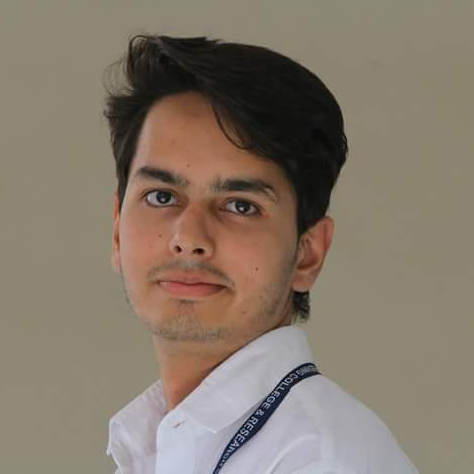
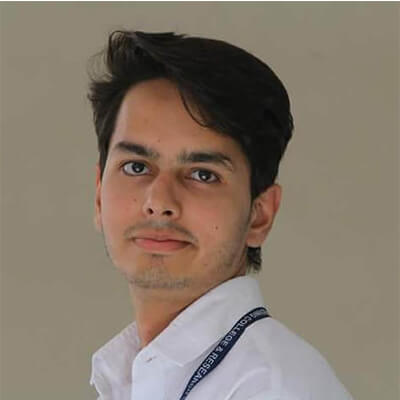
update team images

diff --git a/assets/css/style.css b/assets/css/style.css
@@ -710,10 +710,10 @@ body {
 .event-details article ol, .event-details article ul {
     padding-left: 25px;
 }
-.event-details article h3{
+.event-details article h3 {
     margin: 0;
 }
-.event-details article a{
+.event-details article a {
     color: #00a69c;
 }
 .register-btn {
@@ -1244,7 +1244,7 @@ a.list-group-item img {
     margin-left: 10px;
     margin-top: 5px;
 }
-.contact-msg{
+.contact-msg {
     color: #f63b29;
     font-size: 1.2em;
 }
@@ -1289,6 +1289,24 @@ a.list-group-item img {
 .sponsor img {
     padding: 1em 5%;
     max-height: 180px;
+}
+.member-container {
+    float: none;
+    display: inline-block;
+    vertical-align: top;
+}
+.member-container img {
+    width: 60%;
+    margin-left: 20%;
+    margin-top: 1.5em;
+    margin-bottom: 1em;
+    border-radius: 50%;
+    box-shadow: 3px 2px 10px #222;
+}
+.member-container h4 {
+    font-family: 'Satisfy', cursive;
+    font-size: 2em;
+    color: #00A69C;
 }
 
 /* media query */
@@ -1515,7 +1533,7 @@ a.list-group-item img {
     }
 }
 @media screen and (max-width: 750px) and (max-height: 420px) {
-    #logo{
+    #logo {
         width: 40%;
     }
     .jecrc-img, .dates-img {
@@ -1530,7 +1548,7 @@ a.list-group-item img {
         display: none;
     }
     .pronite, .prizes {
-        top:  70%;
+        top: 70%;
     }
     .flying-man svg {
         bottom: -30px;

diff --git a/assets/partials/partial-team.html b/assets/partials/partial-team.html
@@ -18,7 +18,7 @@
                     <div role="tabpanel" class="tab-pane fade text-center" ng-class="{'active in': $first}" id="tab{{$index+1}}" ng-repeat="members in memberCategories">
                         <div class="row">
                             <div class="col-md-12">
-                                <div class="col-md-4 member-container" ng-repeat="member in members">
+                                <div class="col-md-4 member-container" ng-repeat="member in members | orderBy:random">
                                   <img src="assets/img/team/{{member.img}}" class="img-responsive" />
                                     <h4>{{ member.n }}</h4>
                                      <a class="team-mail" href="mailto:{{ member.m }}"></a>
@@ -34,19 +34,3 @@
     <div class="menu-icon" class="animate-1" ui-sref="explore"><div class="menu-bars"></div></div>
     <div class="clearfix"></div>
 </div>
-
-<style>
-.member-container{
-  float: none;
-  display: inline-block;
-  vertical-align: top;
-}
-.member-container img{
-  width:60%;
-  margin-left: 20%;
-  margin-top: 1.5em;
-  margin-bottom: 1.5em;
-  border-radius: 50%;
-  border: 3px solid white;
-}
-</style>

diff --git a/assets/js/main.js b/assets/js/main.js
@@ -70,6 +70,9 @@ renApp.config(function($stateProvider, $urlRouterProvider,$locationProvider) {
                           {n: 'Raghav Pareek', m: '',img:'raghav.jpg'}
                         ]
                 };
+                $scope.random = function() {
+                    return 0.5 - Math.random();
+                };
             }
         })
         .state('gallery', {
